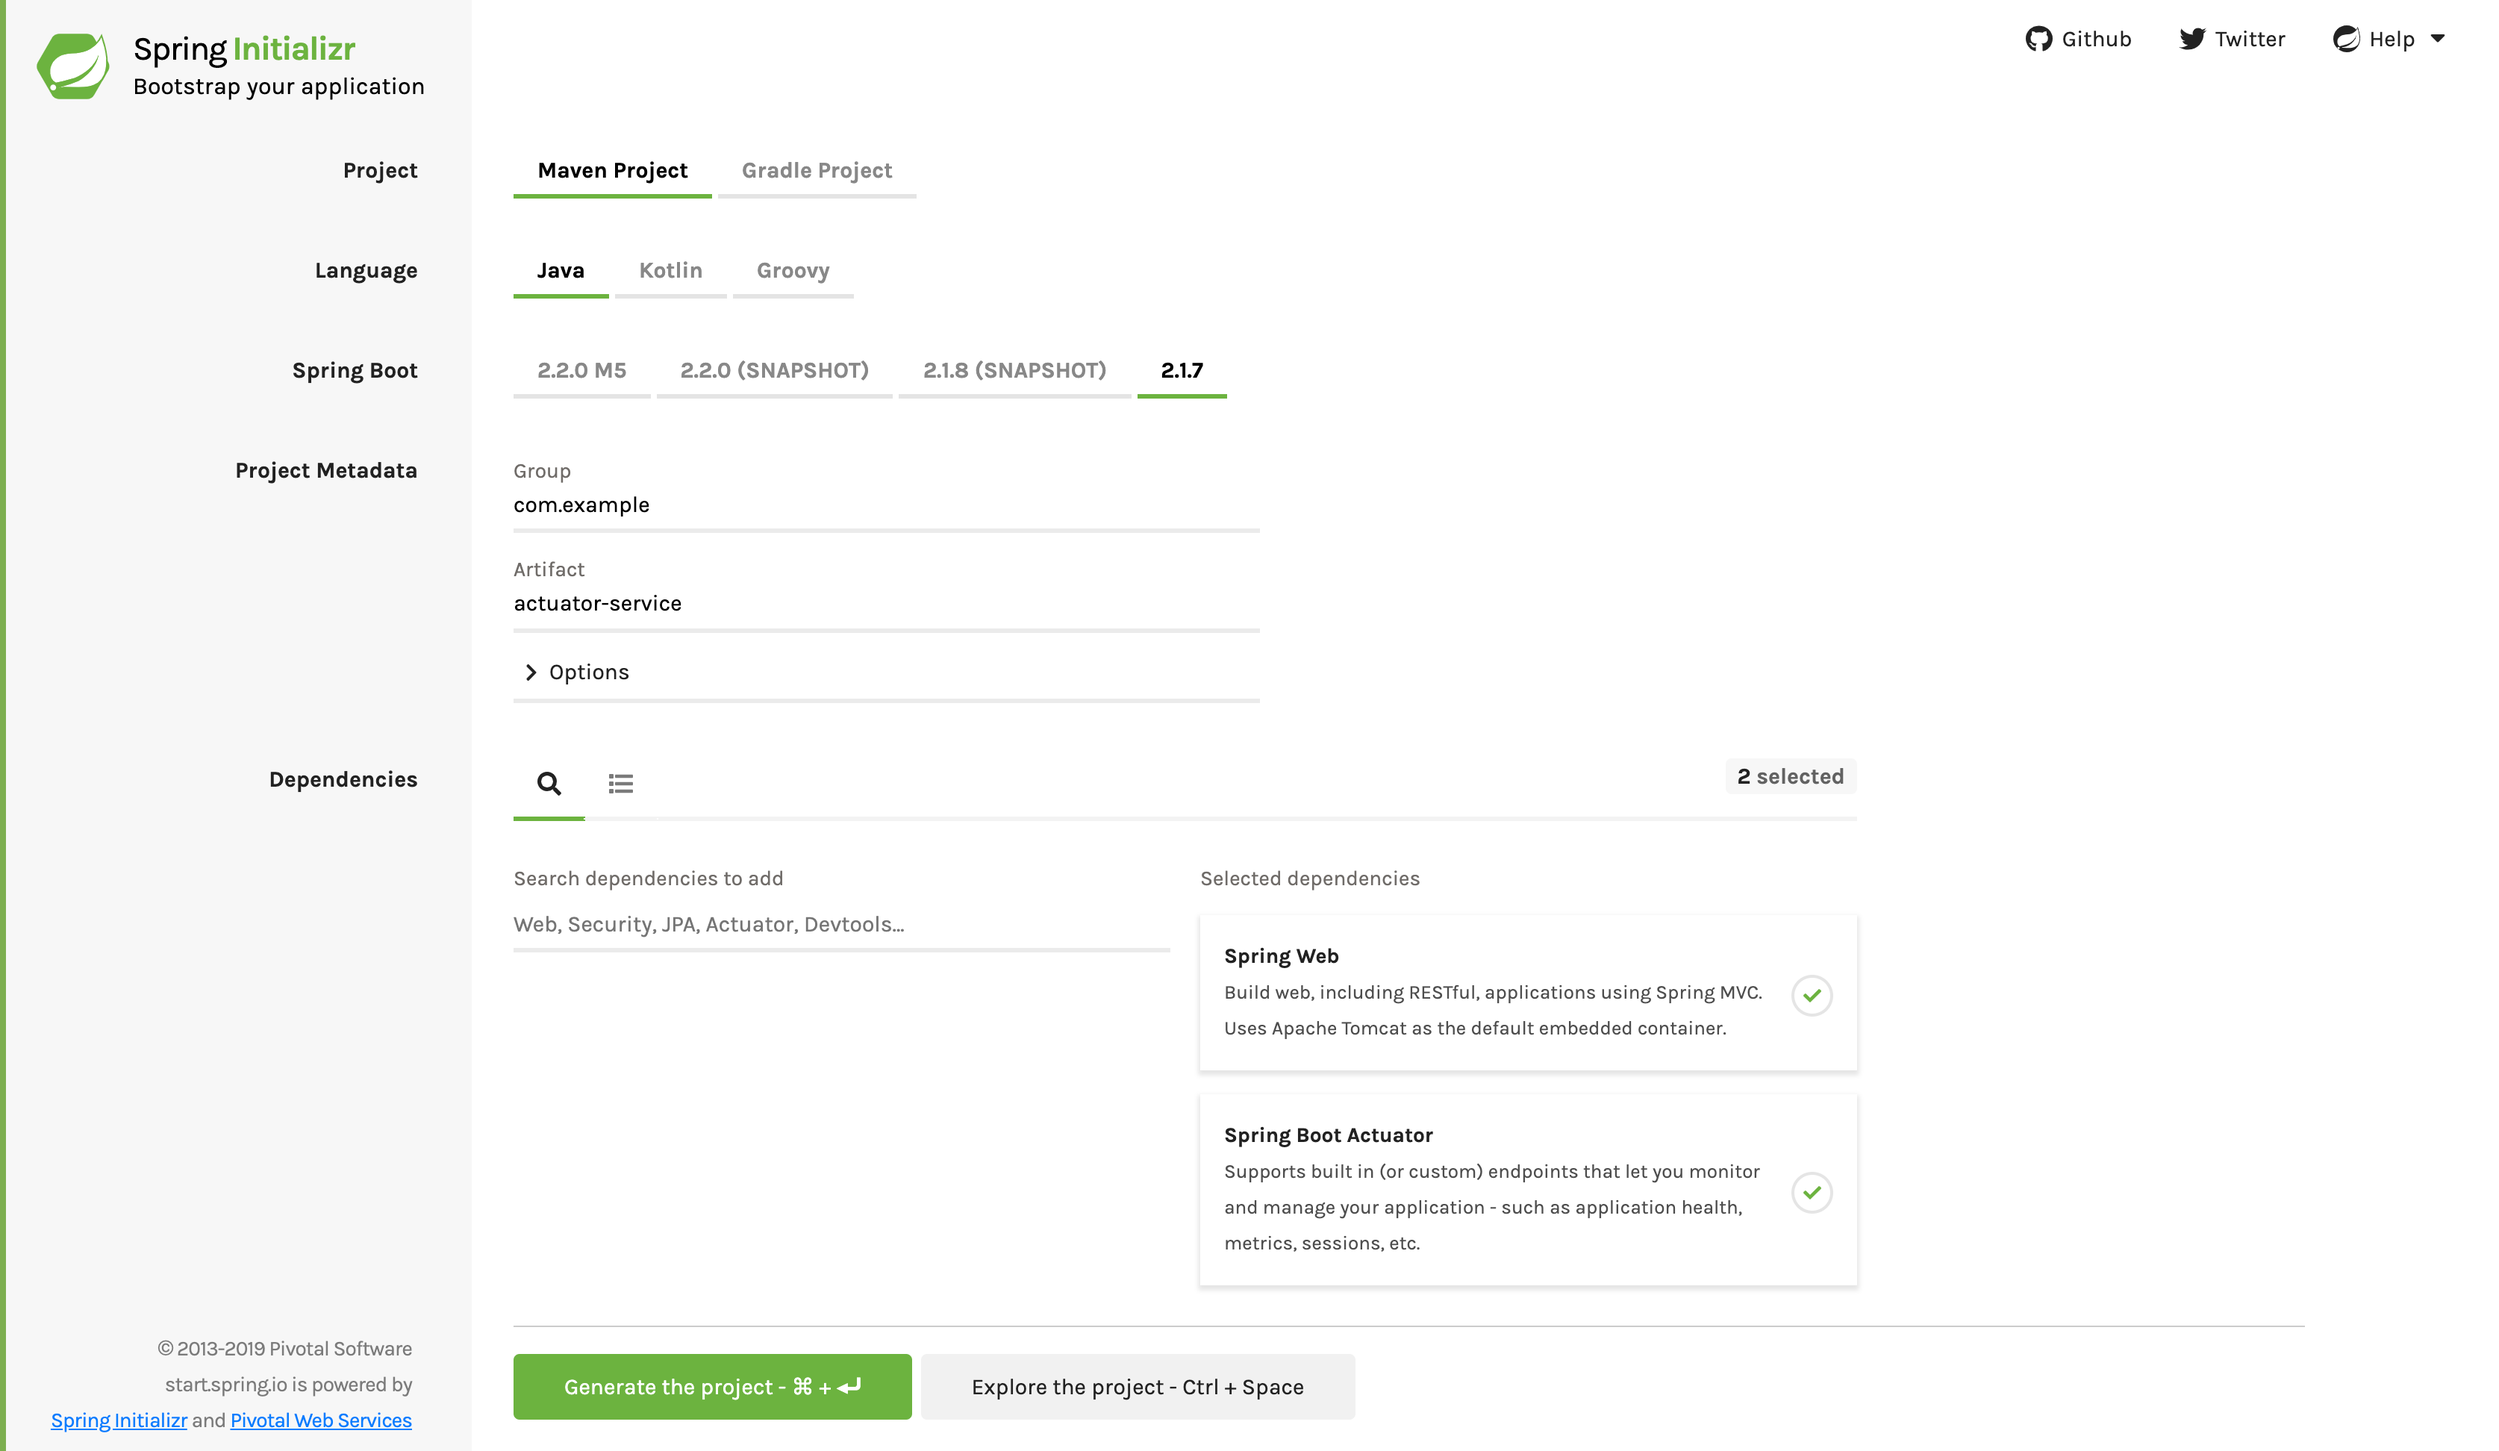
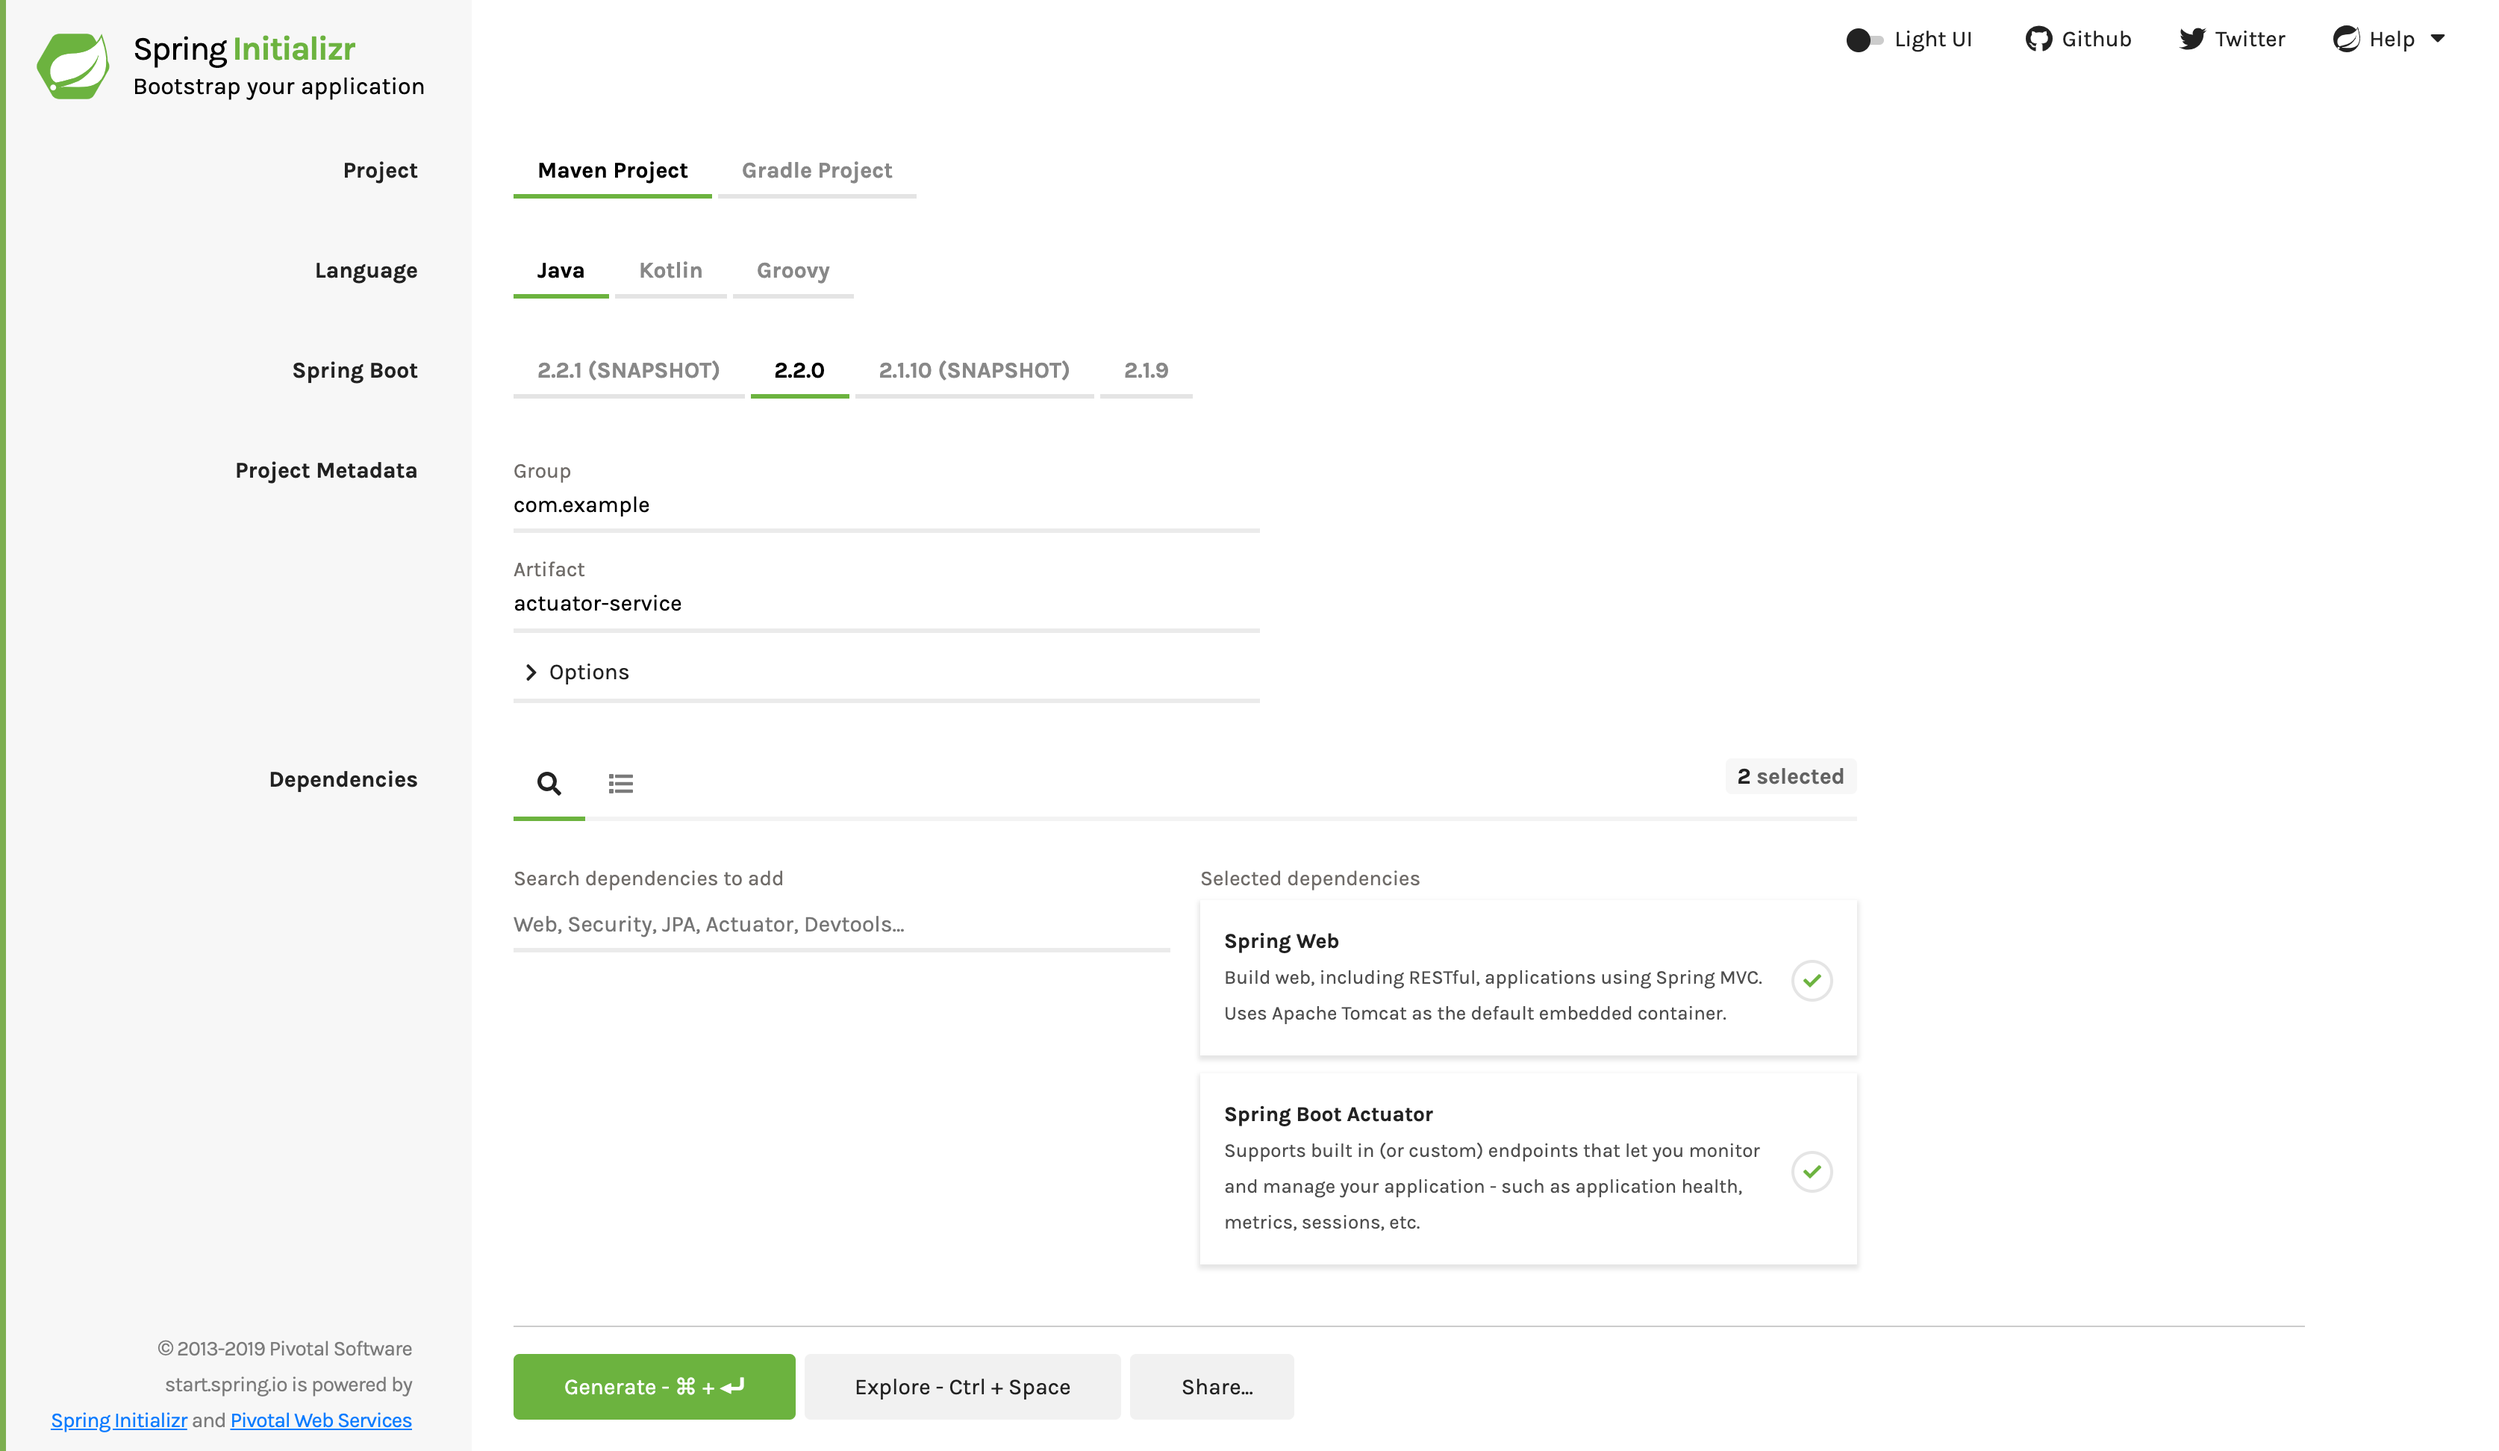
Upgrade to Spring Boot 2.2
I upgraded to Spring 2.2, which required upgrading JUnit to version 5 and upgrading the Gradle wrappers.

diff --git a/complete/src/test/java/com/example/actuatorservice/HelloWorldApplicationTests.java b/complete/src/test/java/com/example/actuatorservice/HelloWorldApplicationTests.java
@@ -17,8 +17,8 @@ package com.example.actuatorservice;
 
 import java.util.Map;
 
-import org.junit.Test;
-import org.junit.runner.RunWith;
+import org.junit.jupiter.api.Test;
+
 import org.springframework.beans.factory.annotation.Autowired;
 import org.springframework.beans.factory.annotation.Value;
 import org.springframework.boot.test.context.SpringBootTest;
@@ -27,7 +27,6 @@ import org.springframework.boot.web.server.LocalServerPort;
 import org.springframework.http.HttpStatus;
 import org.springframework.http.ResponseEntity;
 import org.springframework.test.context.TestPropertySource;
-import org.springframework.test.context.junit4.SpringRunner;
 
 import static org.assertj.core.api.BDDAssertions.then;
 
@@ -36,7 +35,6 @@ import static org.assertj.core.api.BDDAssertions.then;
  *
  * @author Dave Syer
  */
-@RunWith(SpringRunner.class)
 @SpringBootTest(webEnvironment = SpringBootTest.WebEnvironment.RANDOM_PORT)
 @TestPropertySource(properties = {"management.port=0"})
 public class HelloWorldApplicationTests {

diff --git a/initial/src/test/java/com/example/actuatorservice/ActuatorServiceApplicationTests.java b/initial/src/test/java/com/example/actuatorservice/ActuatorServiceApplicationTests.java
@@ -1,0 +1,13 @@
+package com.example.actuatorservice;
+
+import org.junit.jupiter.api.Test;
+import org.springframework.boot.test.context.SpringBootTest;
+
+@SpringBootTest
+class ActuatorServiceApplicationTests {
+
+	@Test
+	void contextLoads() {
+	}
+
+}
